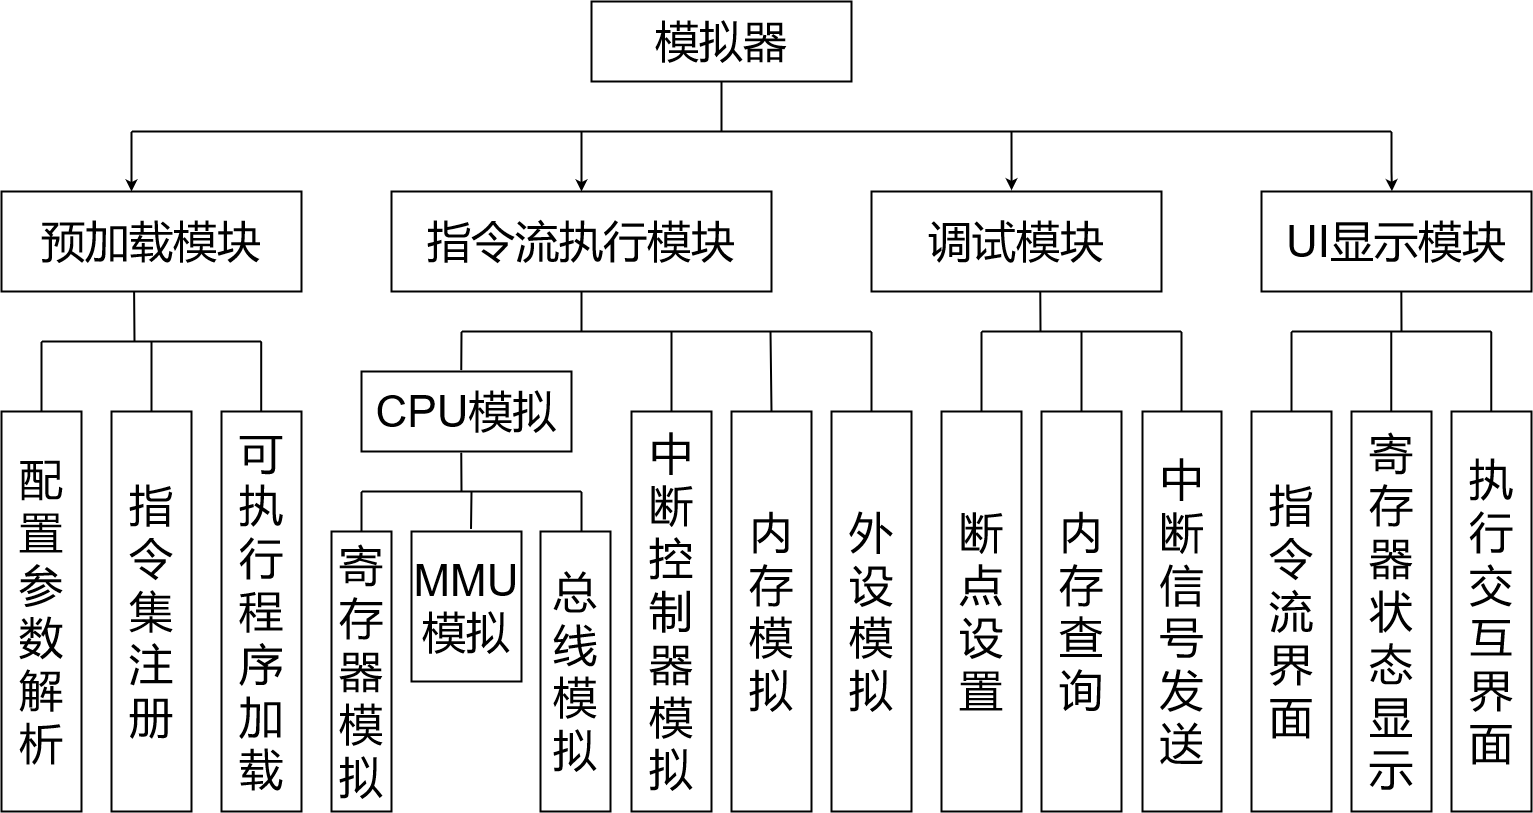
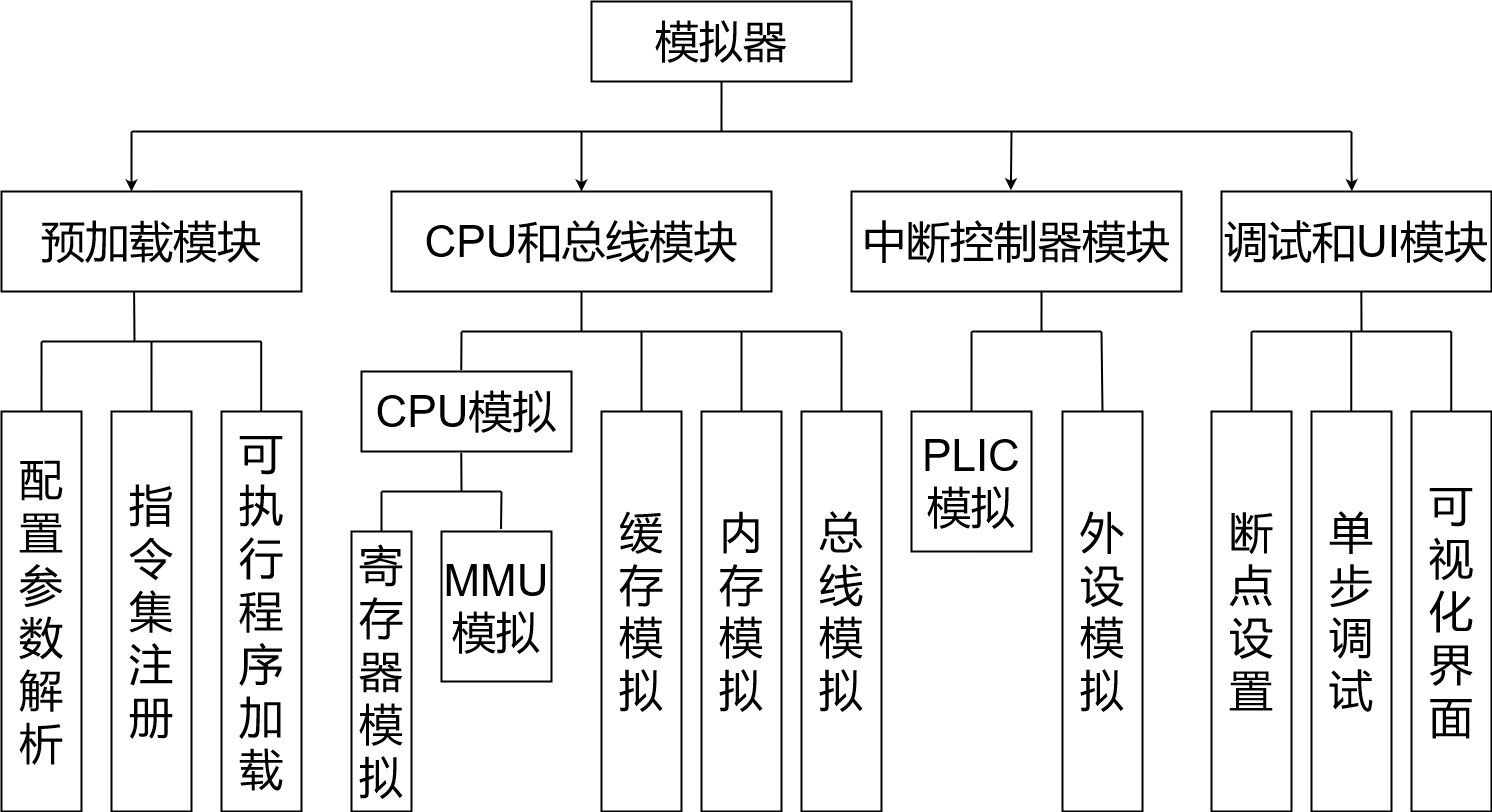
update at 3.27

diff --git a/latex/paper/chapters/general-design.tex b/latex/paper/chapters/general-design.tex
@@ -3,46 +3,75 @@
 \chapter{系统概要设计}
 
 \section{系统概述}
-本系统是针对RISC-V芯片开发团队在系统软件开发和移植过程中使用的体系结构模拟器.将编译好的RISC-V架构可执行代码加载到模拟器上运行,观察执行结果,能够脱离实际硬件平台进行系统软件的调试,也能帮助开发人员及时发现硬件实现可能存在的缺陷，从而提高整个芯片开发过程的效率。
+本章主要是在需求分析的基础上,对RISC-V指令集模拟器的整体架构以及各功能模块的设计进行阐述,在本章节的基础上,可以从整体上了解RISC-V指令集模拟器的设计思路,为后续的具体实现提供指导.
+
 
 \section{系统静态结构}
-RISC-V指令集模拟器的整体功能模块如图\ref{fig:sim_general}所示，主要包含四个功能模块：预加载模块，指令流执行模块，调试模块和UI显示模块。其中，预加载模块包括模拟器参数配置，指令集注册，加载elf文件功能；指令流执行模块包括了主要的Hart模拟，中断控制器模拟，内存模拟，外设模拟等功能，是模拟器的主体功能模块；调试模块包括断点设置，内存查询，模拟中断信号发送功能；UI显示模块包括目标层序执行窗口，调试窗口等的可视化界面和模拟器状态查询功能。
+本系统是针对RISC-V芯片开发团队在系统软件开发和移植过程中使用的体系结构模拟器.用户将编译好的RISC-V架构可执行程序加载到模拟器上运行,控制执行流程,观察执行结果,能够脱离实际硬件平台进行系统软件的调试.该RISC-V指令集模拟器的整体功能模块如图\ref{fig:sim_general}所示，主要包含四个功能模块：预加载模块，CPU和总线模块，中断控制器模块,以及调试和UI模块。其中，预加载模块包括模拟器参数配置，指令集注册，加载ELF文件功能；CPU和总线模块包括了核心的处理器模拟，内存模拟，总线模拟等功能，是模拟器的主体功能模块；中断控制器模块包括PLIC模拟和部分外设模拟;调试模块包含了断点设置，内存查询，模拟中断信号发送功能,和UI显示模块结合在一起,提供目标程序执行窗口，调试窗口等的可视化界面和模拟器状态查询功能。
 \begin{figure}[H]
   \centering
   \includegraphics[width=1.0\textwidth]{sim-general.png}
-  \caption{模拟器整体功能模块图}
+  \caption{系统功能模块图}
   \label{fig:sim_general}
 \end{figure}
 
 
-指令流执行模块是模拟器的主体功能模块，该模块模拟了单条指令执行过程的硬件行为，包括寄存器，总线，内存，MMU，缓存，通过内存映射的I/O设备等。模拟出的RISC-V CPU整体架构如图\ref{fig:cpu}所示，每个处理器都有独立的寄存器组，内存管理单元，所有处理器共享同一个iCache，dCache，紧随其后的是L2Cache和主存。
+根据模拟器各个功能模块的特点和业务需求,确定了RISC-V指令集模拟器的整体架构设计如图\ref{fig:structure}所示,分别由硬件层,数据层,逻辑层,表现层和用户层组成.硬件层主要是X86架构的宿主机环境.数据层主要包括RISC-V目标程序二进制文件,和注册过相应指令集模块的译码器.在模拟器运行时还包括动态的缓存及主存模拟数据.逻辑层包含了模拟器的业务处理逻辑,由预加载模块从数据层提取可执行代码,通过译码器进行翻译,CPU和总线模块执行相应的功能函数,最后将目标程序执行结果以及硬件状态变更同步到表现层.表现层主要由调试窗口,查询窗口和目标程序交互窗口组成.用于展示RISC-V目标程序执行结果,查询模拟器状态信息,以及提供交互调试界面.最终在用户层向用户提供完整的RISC-V指令集功能模拟器.
+
+
+\begin{figure}[H]
+  \centering
+  \includegraphics[width=0.8\textwidth]{cengci.png}
+  \caption{系统整体架构图}
+  \label{fig:structure}
+\end{figure}
+
+
+CPU和总线模块是模拟器的主体功能模块，该模块模拟了单条指令执行过程中的主要硬件行为，包括寄存器，MMU，高速缓存，主存,总线等。模拟出的RISC-V CPU整体逻辑架构图如图\ref{fig:cpu}所示，每个处理器都有独立的寄存器组，内存管理单元，所有处理器共享同一个iCache，dCache，紧随其后的是L2Cache和主存。
 \begin{figure}[H]
   \centering
   \includegraphics[width=0.8\textwidth]{cpu.png}
-  \caption{处理器结构图}
+  \caption{处理器逻辑架构图}
   \label{fig:cpu}
 \end{figure}
 
 
-处理器通过总线和其他内存映射的I/O设备通信，包括BootRom,RTC,UART串口控制器,平台级中断控制器,Mailbox等等.
+从图中可以看出,模拟器以单个处理器(在RISC-V架构中称为硬件线程Hart)为核心模拟对象,核内的数据通信不经过总线,直接在处理器复合类对象内部进行通信,具体的类图见下一章.所有内存映射I/O(Memory-Mapped I/O, MMIO)都需要经过总线.
 
+
+中断系统以平台级中断控制器PLIC为核心,PLIC对外部中断源进行优先级裁决,对内表现为黑盒,处理器不需要关心具体的外部中断源情况,在接受外部中断信号时才会读取相应的外部中断ID,执行对应的中断处理程序.
+
+
+调试和UI模块的设计主要包含前端窗口设计,以及前后端对象间通信设计.前端窗口对象包含交互窗口,调试窗口和状态查询窗口,其中交互窗口需要模拟UART串口控制器,将交互窗口的键入复制到UART的FIFO队列,然后发起UART外部中断,通过PLIC和总线与处理器进行通信.该部分的设计使用了QWidget提供的"信号槽"机制,处理对象间的通信.该机制的优点是松散耦合,信号发送方和接收端本身是没有关联的,通过connect连接,将两端耦合在一起.只需要绑定自定义的信号函数和槽函数,就能方便地实现对象间的异步通信.详细的实现将在下一章进行阐述.
+
+\clearpage
 \section{系统动态结构}
-本模拟器是trace-accurate的指令集模拟器（功能模拟器），模拟器运行的基本流程如图~\ref{fig:sim-seq}所示。
+本模拟器是trace-accurate的指令集模拟器（功能模拟器），模拟器单条指令运行的活动图如图~\ref{fig:sim-seq1}所示。
 \begin{figure}[H]
   \centering
-  \includegraphics[width=0.5\textwidth]{sim-seq.png}
-  \caption{模拟器运行流程图}
-  \label{fig:sim-seq}
+  \includegraphics[width=1.0\textwidth]{huodong.png}
+  \caption{模拟器执行单条指令活动图}
+  \label{fig:sim-seq1}
 \end{figure}
 
 
-首先使用RISC-V交叉编译工具链将目标程序编译为RISC-V架构的ELF文件，然后模拟器解析该elf文件，将对应的指令流搬运到bootrom，模拟器在配置启动后为处理器注册指令集，绑定解码器，逐条进行译码，执行。指令译码器完成包括操作数在内的指令信息提取，找到该条指令注册时对应的功能函数，执行该功能函数，然后将更新后的寄存器状态信息，内存状态信息同步到前端UI显示模块。在模拟器运行的过程中，用户还可以通过前端交互调试窗口来切换模拟器运行模式，设置断点触发条件，进行单步调试，状态查询等操作。
+首先使用RISC-V交叉编译工具链将目标程序编译为RISC-V架构的ELF文件，然后模拟器解析该二进制文件，将对应的指令流搬运到BootROM，模拟器在配置启动后为处理器注册指令集，绑定解码器，逐条进行译码，执行。指令译码器完成包括操作数在内的指令信息提取，找到该条指令注册时对应的功能函数，执行该功能函数，然后将更新后的寄存器状态信息，内存状态信息同步到前端UI显示模块。在模拟器运行的过程中，用户还可以通过前端交互调试窗口来切换模拟器运行模式，设置断点触发条件，进行单步调试，状态查询等操作。
+
+
+模拟器整体的工作流程如图\ref{fig:work-frame}所示.
+\begin{figure}[H]
+  \centering
+  \includegraphics[width=1.0\textwidth]{sim-process.png}
+  \caption{模拟器整体工作流程图}
+  \label{fig:work-frame}
+\end{figure}
+
 
 \subsection{解码器与指令集功能函数}
 RISC-V指令集是模块化的，它的核心是一个名为RV32I的基础ISA，可选的标准扩展包括MAFDC，根据应用程序的需要，硬件可以包含或不包含这些扩展。本模拟器实现了特权指令集1.9版本，和用户指令集2.1版本的标准拓展指令集共196条指令的模拟。模拟器预加载时通过解析配置参数选择相应的指令集模块进行注册，并初始化解码器.流程如图~\ref{fig:decode-process}所示.
 \begin{figure}[H]
   \centering
-  \includegraphics[width=0.5\textwidth]{decode-process.png}
+  \includegraphics[width=0.6\textwidth]{decode-process.png}
   \caption{指令集模块注册流程图}
   \label{fig:decode-process}
 \end{figure}
@@ -60,7 +89,7 @@ RISC-V指令集是模块化的，它的核心是一个名为RV32I的基础ISA，
 MMU的功能模拟主要体现在处理器各个运行状态下的地址翻译功能.在真实的芯片设计中,缓存和MMU是两个独立的硬件模块,但是在功能模拟器中,为了实现的方便,可以将高速缓存模块放到MMU功能模块中,在逻辑上仍然属于两个独立的功能模块,这样做对于处理器行为的模拟没有影响.由于模拟器对于缓存的模拟只能记录缓存的命中率等信息,并不能够真正起到硬件加速的效果,此外本次设计的模拟器作为功能模拟器并不需要对处理器性能指标进行模拟,所以直接舍弃L2Cache的模拟,只在MMU模块中设置iCache和dCache,后续可以使用哈希的方式尝试进行部分优化.MMU和缓存的概要设计如图~\ref{fig:mmu-process}所示。
 \begin{figure}[H]
   \centering
-  \includegraphics[width=0.95\textwidth]{mmu-process.png}
+  \includegraphics[width=0.4\textwidth]{mmu-cache.png}
   \caption{MMU和缓存工作流程图}
   \label{fig:mmu-process}
 \end{figure}

diff --git a/latex/paper/chapters/intro.tex b/latex/paper/chapters/intro.tex
@@ -3,14 +3,14 @@
 \chapter{绪论}
 
 \section{系统开发背景}
-半个世纪以来，集成电路产业伴随着摩尔定律一路高歌猛进，为人类进入信息化时代提供了强大的算力支撑，芯片俨然已成为信息时代的原油。在如今逆全球化的浪潮中，芯片行业首当其冲，成为了大国博弈的前沿战场。我国的集成电路产业经过了几十年的发展，在某些应用领域也取得了不错的成绩，但在高性能处理器以及芯片设计的关键技术中，仍然面临着巨大的挑战\cite{huzhenbo,huzhenbo1}。不管是2018年中美贸易战中“中兴事件”和“华为事件”的发生，还是其他国家对我国实行的禁运政策，都让我国在市场竞争竞争中处于下风，在软件设计和硬件制造上都有相当多的领域存在"卡脖子"的现象。
+半个世纪以来，集成电路产业伴随着摩尔定律一路高歌猛进，为人类进入信息化时代提供了强大的算力支撑，芯片俨然已经成为信息时代的原油。在如今逆全球化的浪潮中，芯片行业首当其冲，成为了大国博弈的前沿战场。我国的集成电路产业经过了几十年的发展，在某些应用领域也取得了不错的成绩，但在高性能处理器以及芯片设计的关键技术中，仍然面临着巨大的挑战\cite{huzhenbo,huzhenbo1}。不管是2018年中美贸易战中"中兴事件"和"华为事件"的发生，还是其他国家对我国实行的禁运政策，都让我国在市场竞争中处于下风，除了光刻机等硬件生产设备,在工业软件乃至指令集架构等领域,都存在"卡脖子"的现象。
 
 
-作为软硬件之间至关重要的接口，指令集架构（Instruction Set Architecture, ISA）是处理器的灵魂。长期以来，主流的指令级架构作为少数大公司的知识产权，几乎垄断了全球的芯片设计与制造行业，成为绕不开的技术壁垒。我国的芯片设计行业起步较晚，即使经过几十年的发展，它们仍未占据技术的制高点，自主指令集架构处理器的生态环境还没有完善，国内也还没有相对成熟的指令集架构，绝大多数的商业芯片设计需要靠国外的技术授权，这不仅极大的提高芯片设计的成本，还会受到授权厂商的制约，市场竞争力不强，而且信息安全也有很大的问题。所有这些都极大地限制了国产自主架构处理器的应用和推广。不过近年来随着部分开源的指令级架构的诞生，有望打破这一局面。作为一款完全开源的指令集架构,RISC-V在众多指令集架构中脱颖而出，不仅是因为其设计理念先进，采用模块化设计的方案，而且因为它开放，包容，提供了高度灵活的配置空间，在积极拥抱开源软件的今天，RISC-V已经成为未来的主流架构，随着RISC-V开源社区的日益壮大，更多的芯片设计厂商选择RISC-V作为其指令集架构,指导芯片的设计生产\cite{包云岗2022开源芯片生态技术体系构建面临的机遇与挑战}.
+作为软硬件之间至关重要的接口，指令集架构（Instruction Set Architecture, ISA）是处理器的灵魂。长期以来，主流的指令级架构作为少数大公司的知识产权，几乎垄断了全球的芯片设计与制造行业，成为绕不开的技术壁垒。我国的芯片设计行业起步较晚，即使经过几十年的发展，它们仍未占据技术的制高点，自主指令集架构处理器的生态环境还没有完善，国内也还没有相对成熟的指令集架构，绝大多数的商业芯片设计需要靠国外的技术授权，这不仅极大的提高芯片设计的成本，还会受到授权厂商的制约，市场竞争力不强，而且信息安全也有很大的问题。所有这些都极大地限制了国产自主架构处理器的应用和推广。不过近年来随着部分开源的指令级架构的诞生，这一局面有望被打破。RISC-V作为一款完全开源的指令集架构,在众多开源指令集架构中脱颖而出，不仅是因为其设计理念先进，采用模块化设计的方案，而且因为它开放，包容，提供了高度灵活的配置空间，在积极拥抱开源软件的今天，RISC-V已经成为未来的主流架构，随着RISC-V开源社区的日益壮大，更多的芯片设计厂商选择RISC-V作为其指令集架构,指导芯片的设计生产\cite{包云岗2022开源芯片生态技术体系构建面临的机遇与挑战}.
 
 % 在集成度越来越高的今天，面对数千万乃至上亿晶体管的规模，那种“设计硬件原型-实现-评估-改进-再实现”的模式已经无法满足现代设计应用的需求\cite{jichengdu}.
 % 有研究表明，如果在CPU的方案论证和设计阶段，没有及时发现问题与瓶颈，将会使后续的工作变得更为困难且代价更加高昂。因此，在开发一个新的体系结构处理器时，为了确保处理器功能特性和性能参数达到设计的预期目标，对体系结构进行验证是一个必不可少的步骤\cite{buzhou}.
-随着摩尔定律的减缓,芯片的集成度已经越来越接近理论上的极限,在如今的集成度面前,传统的“设计硬件原型-实现-评估-改进-再实现”的芯片开发模式已然落伍\cite{jichengdu}.有研究表明,在实际的芯片开发项目中,如果在前期方案论证阶段没有及时发现设计的缺陷和性能瓶颈,后期的工作将会异常困难,且会伴随高昂的代价\cite{buzhou}.除此之外,在芯片开发后期,软硬件适配工作作为测试的重点\cite{黄聪会2012软件移植理论与技术研究}，往往也需要模拟器环境的支持\cite{butko2012accuracy}，厂商可以根据自身产品特性，设计相应的模拟器，并在此基础之上进行软件移植工作和前期软硬件设配工作，以此来提高芯片验证与测试工作的效率。当前RISC-V的软件生态尚不完善,各种软件的RISC-V移植工作正在开源社区如火如荼地进行中,对于芯片设计和开发厂商,更加需要积极地参与进来.从经济成本和时间成本的角度来看,RISC-V架构的体系结构模拟器可以对此类工作提供极大的便利,并且节省相当的硬件平台成本.
+随着摩尔定律的减缓,芯片的集成度已经越来越接近理论上的极限,在如今的集成度面前,传统的“设计硬件原型-实现-评估-改进-再实现”的芯片开发模式已然落伍\cite{jichengdu}.有研究表明,在实际的芯片开发项目中,如果在前期方案论证阶段没有体系结构模拟器的支持,将很难及时发现设计的缺陷和性能瓶颈,导致后期的工作变得异常困难,且会伴随高昂的代价\cite{buzhou}.除此之外,在芯片开发后期,软硬件适配工作作为测试的重点\cite{黄聪会2012软件移植理论与技术研究}，往往也需要模拟器环境的支持\cite{butko2012accuracy}，厂商可以根据自身产品特性，设计相应的性能或功能模拟器，并在此基础之上进行软件移植工作和前期软硬件设配工作，以此来提高芯片验证与测试工作的效率。从经济成本和时间成本的角度来看,体系结构模拟器都可以为芯片设计与验证工作提供极大的便利.相较于一些主流指令集架构,当前RISC-V的软件生态尚不完善,各种软件的RISC-V移植工作正在开源社区如火如荼地进行中,对于芯片设计和开发厂商,系统软件的开发移植更是重中之重.因此开发一款符合自身产品特性的RISC-V模拟器将成为贯穿芯片开发周期的一项重要的软件工程.
 
 
 \section{国内外发展现状}

diff --git a/latex/paper/chapters/need-analysis.tex b/latex/paper/chapters/need-analysis.tex
@@ -6,14 +6,30 @@
 
 \section{需求导出}
 
-在芯片设计及验证的流程中，对于基础系统软件尤其是操作系统，底层驱动等的适配和验证往往是反馈硬件设计缺陷最频繁的部分，这部分的工作不仅是对于前期硬件设计的重要测试，也是后续用户态程序开发的基础。对于系统软件的移植和适配工作，有两种主流方式，一种是在模拟芯片硬件特性的FPGA开发板上仿真，另一种是通过软件模拟。两种方法各有利弊，FPGA开发板更加接近真实硬件环境，能够获取精确的仿真信号，但是速度相对较慢，并且能够提供的调试信息较少。而模拟器环境下的开发，其运行速度接近宿主机，并且调试方便，虽然信号精度与真实硬件有差异，但是能够在测试的前期反馈大部分的缺陷。所以真实的开发和测试流程一般是先使用模拟器验证，再上FPGA平台仿真，这样既能够提高开发效率，又不失精度。
-随着RISC-V开源社区的日益壮大，更多的芯片设计厂商选择RISC-V作为其指令集架构，在芯片的验证过程中，软硬件适配工作作为测试的重点，往往需要模拟器环境的支持。当前RISC-V开源社区提供的模拟器作为教学工具可以帮助的初学者快速上手，但是对于实际的芯片开发团队来说，系统软件的移植和开发工作需要一款符合实际硬件设计的模拟器，对真实的硬件功能进行模拟，同时要能够提供强大的调试工具，方便系统软件的开发迭代。本模拟器主要用于芯片开发项目后期的验证工作和系统软件移植工作，对于一些具体的硬件细节，如流水线，分支预测等不进行模拟，只对处理器功能进行模拟，属于解释型的指令集模拟器。
+在芯片设计及验证的流程中，对于基础系统软件尤其是操作系统，底层驱动等的适配和验证往往是反馈硬件设计缺陷最频繁的部分，这部分的工作不仅是对于前期硬件设计的重要测试，也是后续用户态程序开发的基础。对于系统软件的移植和适配工作，有两种主流方式，一种是在模拟芯片硬件特性的可编程逻辑门阵列(Field Programmable Gate Array, FPGA)平台上仿真，另一种是通过软件模拟。两种方法各有利弊，FPGA开发板更加接近真实硬件环境，能够获取精确的仿真信号，但是能够提供的调试手段有限,并且软件迭代过程将花费大量的烧写刻录时间。而模拟器环境下的开发，其运行速度接近宿主机，并且调试方便，虽然信号精度与真实硬件有差异，但是能够在测试的前期反馈大部分的缺陷。所以真实的开发和测试流程一般是先使用模拟器验证，再上FPGA平台仿真，这样既能够提高开发效率，又不失精度。
+
+
+随着RISC-V开源社区的日益壮大，更多的芯片设计厂商选择RISC-V作为其指令集架构，但是由于RISC-V架构的软件生态尚不成熟,有大量的系统软件还未得到RISC-V支持，因此芯片厂商将更多地依赖模拟器环境进行软件移植工作。当前RISC-V开源社区提供的模拟器作为教学工具可以帮助初学者快速上手，但是对于实际的芯片开发团队来说，系统软件的移植和开发工作需要一款符合实际硬件设计的模拟器，对真实的硬件功能进行模拟，同时要能够提供强大的调试工具，方便系统软件的开发迭代。
+
+
+通过在实际的芯片开发项目中总结的经验,以及对其他体系结构模拟器的调研,最终明确了RISC-V指令集模拟器的业务需求和工作流程,并在此基础上建立了系统需求模型.
+
+
+RISC-V指令集模拟器的核心业务流程如图\ref{fig:sim-seq}所示.
+\begin{figure}[H]
+  \centering
+  \includegraphics[width=0.5\textwidth]{sim-seq.png}
+  \caption{模拟器运行流程图}
+  \label{fig:sim-seq}
+\end{figure}
 
 
 \section{分析建模}
 
-指令集模拟器的主要参与者是进行系统软件开发和移植的程序员，
-首先使用RISC-V交叉编译工具链将目标程序编译为RISC-V架构的ELF文件，然后模拟器解析该elf文件，将对应的指令流搬运到bootrom，模拟器在配置启动后为处理器注册指令集，绑定解码器，逐条进行译码，执行。指令译码器完成包括操作数在内的指令信息提取，找到该条指令注册时对应的功能函数，执行该功能函数，然后将更新后的寄存器状态信息，内存状态信息同步到前端UI显示模块。在模拟器运行的过程中，用户还可以通过前端交互调试窗口来切换模拟器运行模式，设置断点触发条件，进行单步调试，状态查询等操作。
+指令集模拟器的主要参与者是进行系统软件开发和移植的程序员，本模拟器主要用于芯片开发项目后期的验证工作和系统软件移植工作，对于一些具体的硬件细节，如流水线，分支预测等不进行模拟，只对处理器功能进行模拟，提供指令级别的仿真.
+
+
+用户首先使用RISC-V交叉编译工具链将目标程序编译为RISC-V架构的ELF文件，然后模拟器解析该elf文件，将对应的指令流搬运到bootrom，模拟器在配置启动后为处理器注册指令集，绑定解码器，逐条进行译码，执行。指令译码器完成包括操作数在内的指令信息提取，找到该条指令注册时对应的功能函数，执行该功能函数，然后将更新后的寄存器状态信息，内存状态信息同步到前端UI显示模块。在模拟器运行的过程中，用户还可以通过前端交互调试窗口来切换模拟器运行模式，设置断点触发条件，进行单步调试，状态查询等操作。
 通过对实际芯片开发验证过程的分析和归纳，得出模拟器所需要的主要功能有:
 
 
